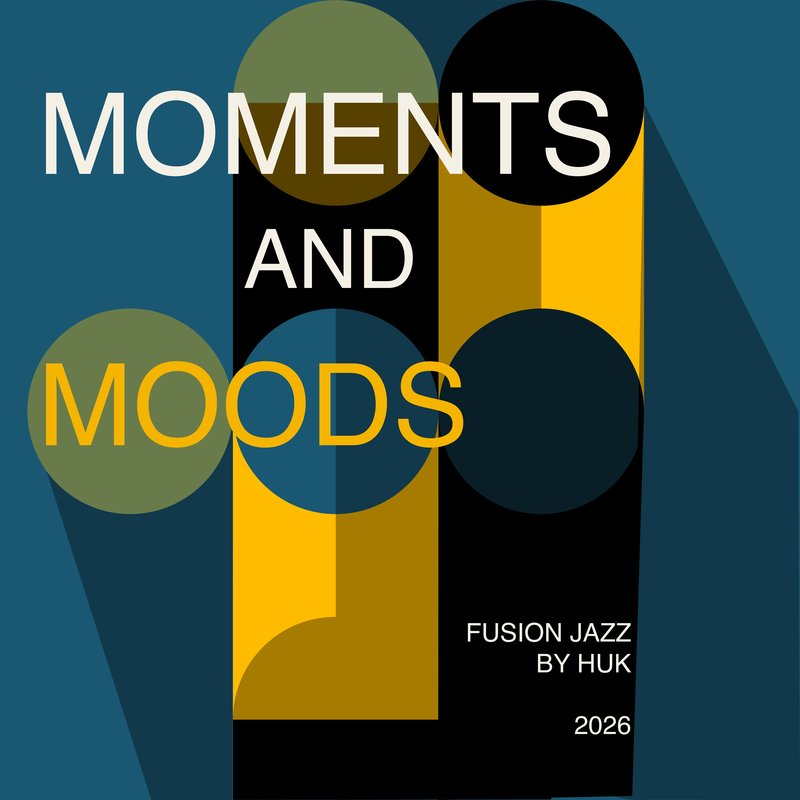
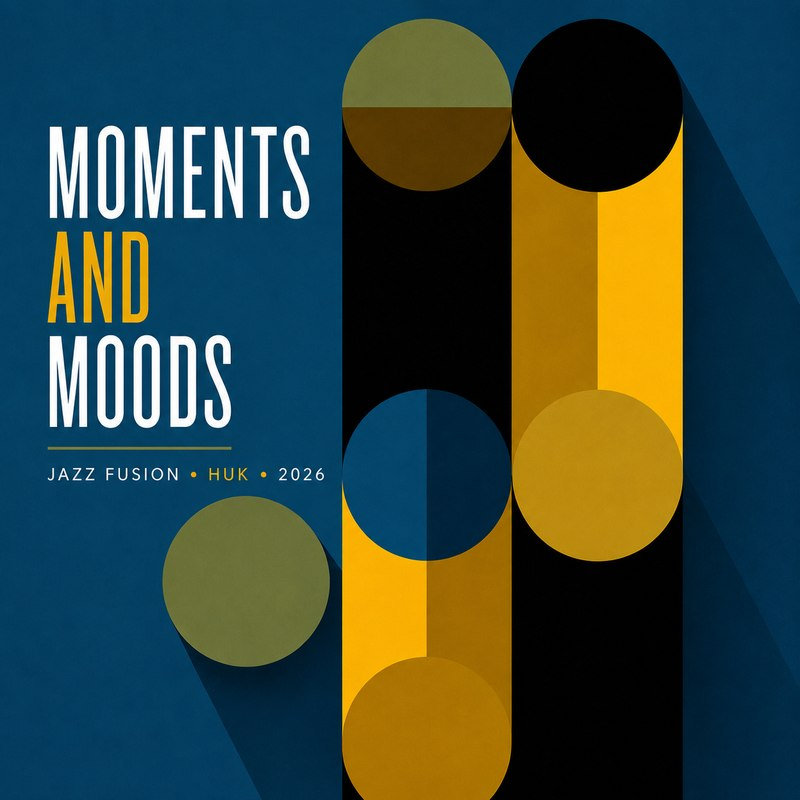
Update EDM/Jazz cover art, fix Jazz track titles/order, admin.html to English
- New static "FUSION EDM" cover replaces the animated GIF on the hub's
  EDM tile (assets/img/edm-teaser.jpg, resized from the supplied 3000x3000
  artwork; the old GIF is removed).
- New "Moments and Moods" cover (assets/img/jazz-teaser.jpg) replaces the
  previous one, matching the artwork supplied alongside the official
  tracklist.
- Jazz Fusion track titles and order now match the official "Moments and
  Moods" tracklist: Turning Point, End of Summer, Sunday Feeling,
  Changing Moods. The two previously-placeholder titles (Echo, Fading
  Light) are matched to Turning Point/Changing Moods by elimination
  against the two titles that were already correct — not verified by
  listening, flagged in README.md for a quick check.
- admin.html translated to English (labels, buttons, status messages) —
  it's served from the same site, so it's in scope for the "everything in
  English" requirement even though it's an owner-only tool.

Claude-Session: https://claude.ai/code/session_014KYhszpZwosWsw3L8Tr8Nx

diff --git a/admin.html b/admin.html
@@ -1,9 +1,9 @@
 <!doctype html>
-<html lang="de">
+<html lang="en">
 <head>
 <meta charset="UTF-8" />
 <meta name="viewport" content="width=device-width, initial-scale=1" />
-<title>Text-Editor — HUK</title>
+<title>Text Editor — HUK</title>
 <meta name="robots" content="noindex" />
 <link rel="stylesheet" href="assets/css/hub.css" />
 <style>
@@ -113,24 +113,24 @@
 </header>
 
 <main class="admin-wrap">
-  <h1>Text-Editor</h1>
+  <h1>Text Editor</h1>
   <p class="lede">
-    Hier änderst du die Marketing-Texte auf Startseite, EDM- und Jazz-Fusion-Seite direkt —
-    „Speichern" wirkt sofort auf der echten Webseite, kein Warten, kein Redeploy nötig. Impressum
-    und Datenschutz sind hier bewusst nicht editierbar (rechtlich heikel), dafür wie bisher direkt
-    im Code.
+    Edit the marketing copy on the homepage, EDM page, and Jazz Fusion page directly here —
+    "Save" takes effect on the live website immediately, no waiting, no redeploy needed. Legal
+    Notice and Privacy Policy are deliberately not editable here (legally sensitive), those still
+    go through the code as before.
   </p>
 
   <div id="loginCard" class="admin-card" hidden>
     <p style="margin-top:0;color:var(--hub-fg-dim);font-size:0.9rem;">
-      Melde dich mit deiner E-Mail-Adresse an — du bekommst einen Login-Link zugeschickt, ein Klick
-      darauf öffnet diese Seite eingeloggt. Kein Passwort nötig.
+      Sign in with your email address — you'll get a login link by email, one click on it opens
+      this page signed in. No password needed.
     </p>
     <div class="admin-field">
-      <label for="loginEmail">E-Mail-Adresse</label>
+      <label for="loginEmail">Email address</label>
       <input type="email" id="loginEmail" placeholder="huk53@kloeppis.de" autocomplete="email" />
     </div>
-    <button type="button" class="admin-btn" id="loginBtn">Login-Link senden</button>
+    <button type="button" class="admin-btn" id="loginBtn">Send login link</button>
     <div id="loginStatus"></div>
   </div>
 
@@ -139,19 +139,19 @@
     <div id="groups"></div>
 
     <div class="admin-savebar">
-      <button type="button" class="admin-btn" id="saveBtn">Änderungen speichern</button>
-      <button type="button" class="admin-btn admin-btn--ghost" id="reloadBtn">Neu laden</button>
-      <button type="button" class="admin-btn admin-btn--ghost" id="signOutBtn">Abmelden</button>
+      <button type="button" class="admin-btn" id="saveBtn">Save changes</button>
+      <button type="button" class="admin-btn admin-btn--ghost" id="reloadBtn">Reload</button>
+      <button type="button" class="admin-btn admin-btn--ghost" id="signOutBtn">Sign out</button>
       <span id="saveStatus"></span>
     </div>
   </div>
 
   <div id="notAuthorized" class="admin-card" hidden>
     <p style="margin:0;">
-      Eingeloggt als <strong id="wrongEmail"></strong> — dieses Konto darf hier nichts ändern.
-      Melde dich mit der Studio-E-Mail-Adresse an.
+      Signed in as <strong id="wrongEmail"></strong> — this account isn't allowed to change
+      anything here. Sign in with the studio's email address instead.
     </p>
-    <button type="button" class="admin-btn admin-btn--ghost" id="signOutBtn2" style="margin-top:1rem;">Abmelden</button>
+    <button type="button" class="admin-btn admin-btn--ghost" id="signOutBtn2" style="margin-top:1rem;">Sign out</button>
   </div>
 </main>
 
@@ -170,32 +170,32 @@
   // what actually matters and is what content.js reads on the live pages.
   const FIELD_GROUPS = [
     {
-      title: "Startseite (index.html)",
+      title: "Homepage (index.html)",
       fields: [
-        ["hub.kicker", "Kicker (klein, über der Headline)"],
+        ["hub.kicker", "Kicker (small, above the headline)"],
         ["hub.title", "Headline"],
-        ["hub.lede", "Einleitungstext"],
-        ["hub.edm.teaser", "EDM-Kachel: Teasertext"],
-        ["hub.edm.cta", "EDM-Kachel: Button-Text"],
-        ["hub.jazz.teaser", "Jazz-Fusion-Kachel: Teasertext"],
-        ["hub.jazz.cta", "Jazz-Fusion-Kachel: Button-Text"],
+        ["hub.lede", "Intro text"],
+        ["hub.edm.teaser", "EDM tile: teaser text"],
+        ["hub.edm.cta", "EDM tile: button text"],
+        ["hub.jazz.teaser", "Jazz Fusion tile: teaser text"],
+        ["hub.jazz.cta", "Jazz Fusion tile: button text"],
       ],
     },
     {
-      title: "EDM-Seite (edm.html)",
+      title: "EDM page (edm.html)",
       fields: [
-        ["edm.hero.tagline", "Hero: Untertitel"],
-        ["edm.hero.cta", "Hero: Button-Text"],
-        ["edm.songs.heading", "Songs-Bereich: Überschrift"],
-        ["edm.songs.intro", "Songs-Bereich: Einleitungstext"],
-        ["edm.about.heading", "Studio-Bereich: Überschrift"],
-        ["edm.about.p1", "Studio-Bereich: Textabsatz 1"],
-        ["edm.about.p2", "Studio-Bereich: Textabsatz 2"],
+        ["edm.hero.tagline", "Hero: subtitle"],
+        ["edm.hero.cta", "Hero: button text"],
+        ["edm.songs.heading", "Songs section: heading"],
+        ["edm.songs.intro", "Songs section: intro text"],
+        ["edm.about.heading", "Studio section: heading"],
+        ["edm.about.p1", "Studio section: paragraph 1"],
+        ["edm.about.p2", "Studio section: paragraph 2"],
       ],
     },
     {
-      title: "Jazz-Fusion-Seite (jazz.html)",
-      fields: [["jazz.hero.tagline", "Hero: Untertitel"]],
+      title: "Jazz Fusion page (jazz.html)",
+      fields: [["jazz.hero.tagline", "Hero: subtitle"]],
     },
   ];
 
@@ -225,9 +225,9 @@
         options: { emailRedirectTo: window.location.origin + window.location.pathname },
       });
       if (error) throw error;
-      showStatus(loginStatus, "Login-Link verschickt — schau in dein Postfach und klick den Link darin.", true);
+      showStatus(loginStatus, "Login link sent — check your inbox and click the link in it.", true);
     } catch (err) {
-      showStatus(loginStatus, "Fehler beim Senden: " + err.message, false);
+      showStatus(loginStatus, "Error sending link: " + err.message, false);
     }
   });
 
@@ -271,7 +271,7 @@
   async function loadContent() {
     const { data, error } = await supa.from("site_content").select("key, value");
     if (error) {
-      showStatus(saveStatus, "Konnte Inhalte nicht laden: " + error.message, false);
+      showStatus(saveStatus, "Could not load content: " + error.message, false);
       return;
     }
     renderEditor(data || []);
@@ -282,7 +282,7 @@
   document.getElementById("saveBtn").addEventListener("click", async () => {
     const dirtyFields = Array.from(groupsEl.querySelectorAll(".admin-field.is-dirty"));
     if (!dirtyFields.length) {
-      showStatus(saveStatus, "Keine Änderungen zum Speichern.", true);
+      showStatus(saveStatus, "No changes to save.", true);
       return;
     }
     const saveBtn = document.getElementById("saveBtn");
@@ -297,9 +297,9 @@
         originalValues[key] = value;
         field.classList.remove("is-dirty");
       }
-      showStatus(saveStatus, `${dirtyFields.length} Änderung(en) gespeichert — live auf der Webseite.`, true);
+      showStatus(saveStatus, `${dirtyFields.length} change(s) saved — live on the website.`, true);
     } catch (err) {
-      showStatus(saveStatus, "Fehler beim Speichern: " + err.message, false);
+      showStatus(saveStatus, "Error saving: " + err.message, false);
     } finally {
       saveBtn.disabled = false;
     }
@@ -313,11 +313,11 @@
     }
     const email = session.user?.email || "";
     if (email.toLowerCase() !== OWNER_EMAIL.toLowerCase()) {
-      document.getElementById("wrongEmail").textContent = email || "(unbekannt)";
+      document.getElementById("wrongEmail").textContent = email || "(unknown)";
       notAuthorized.hidden = false;
       return;
     }
-    whoamiEl.textContent = `Angemeldet als ${email}`;
+    whoamiEl.textContent = `Signed in as ${email}`;
     editorCard.hidden = false;
     await loadContent();
   }

diff --git a/assets/js/jazz.js b/assets/js/jazz.js
@@ -23,10 +23,16 @@
   const APPLE_MUSIC_URL = "https://music.apple.com/de/artist/huk-fusion/6803407059";
   const SPOTIFY_URL = "https://open.spotify.com/artist/5V0AuyekqjEpdtGwjL6m85";
 
+  /* Titles/order per the official "Moments and Moods" tracklist. Audio
+     filenames were already on disk before the official titles arrived,
+     so they don't match 1:1 — matched up by elimination against the two
+     already-correct titles (Sunday Feeling, End of Summer). Worth a
+     quick listen-through to confirm "echo.mp3" is really "Turning Point"
+     and "fading-light.mp3" is really "Changing Moods". */
   const JAZZ_TRACKS = [
     {
-      id: "echo",
-      title: "Echo",
+      id: "turning-point",
+      title: "Turning Point",
       tag: "Fusion Jazz",
       bpm: 92,
       audioSrc: "assets/audio/echo.mp3",
@@ -34,11 +40,11 @@
       spotifyUrl: SPOTIFY_URL,
     },
     {
-      id: "fading-light",
-      title: "Fading Light",
+      id: "end-of-summer",
+      title: "End of Summer",
       tag: "Fusion Jazz",
-      bpm: 88,
-      audioSrc: "assets/audio/fading-light.mp3",
+      bpm: 90,
+      audioSrc: "assets/audio/end-of-summer.mp3",
       appleUrl: APPLE_MUSIC_URL,
       spotifyUrl: SPOTIFY_URL,
     },
@@ -52,11 +58,11 @@
       spotifyUrl: SPOTIFY_URL,
     },
     {
-      id: "end-of-summer",
-      title: "End of Summer",
+      id: "changing-moods",
+      title: "Changing Moods",
       tag: "Fusion Jazz",
-      bpm: 90,
-      audioSrc: "assets/audio/end-of-summer.mp3",
+      bpm: 88,
+      audioSrc: "assets/audio/fading-light.mp3",
       appleUrl: APPLE_MUSIC_URL,
       spotifyUrl: SPOTIFY_URL,
     },

diff --git a/index.html b/index.html
@@ -37,7 +37,7 @@
   <section class="hub-grid">
     <a class="hub-tile hub-tile--edm" href="edm.html">
       <div class="hub-tile__media">
-        <img src="assets/img/edm-teaser.gif" alt="HUK Fusion EDM — cover artwork" loading="lazy" />
+        <img src="assets/img/edm-teaser.jpg" alt="HUK Fusion EDM — cover artwork" loading="lazy" />
       </div>
       <div class="hub-tile__body">
         <span class="hub-tile__kicker">01 — Area</span>

diff --git a/README.md b/README.md
@@ -11,8 +11,8 @@ ein kleines, direkt angebundenes Supabase-Projekt.
 Veröffentlicht via GitHub Pages: https://huk-bem.github.io/huk53/
 
 **Sprache:** Alle Seiteninhalte (Texte, Buttons, Formulare, Impressum/
-Datenschutz) sind auf **Englisch**. Diese README bleibt zur Pflege auf
-Deutsch.
+Datenschutz, inkl. `admin.html`) sind auf **Englisch**. Diese README
+bleibt zur Pflege auf Deutsch.
 
 ## Vorherige Version (archiviert)
 
@@ -42,7 +42,7 @@ assets/js/consent.js    Cookie-Banner + Supabase-Client + Besuchskennung (nur au
 assets/js/content.js    Lädt Marketing-Text-Overrides aus Supabase (index/edm/jazz.html)
 assets/js/intro.js      Intro-Modus: Hintergrund-Motiv + Autoplay-Soundtrack (nur auf edm.html)
 assets/js/jazz.js       Jazz-Fusion-Player (4 Tracks, 30s-Vorschau + Streaming-Buttons)
-assets/img/edm-teaser.gif   Cover-Motiv für die EDM-Kachel auf der Startseite
+assets/img/edm-teaser.jpg   Cover-Motiv ("FUSION EDM") für die EDM-Kachel auf der Startseite
 assets/img/jazz-teaser.jpg  Cover-Motiv ("Moments and Moods") für Jazz-Fusion-Kachel + Hero
 assets/audio/           MP3-Dateien (siehe README dort für Status pro Track)
 supabase-content-setup.sql  SQL für die site_content-Tabelle + RLS (Text-Editor)
@@ -92,14 +92,19 @@ vier echte Tracks aus der Reihe **„Moments and Moods"**, mit demselben
 Streaming-Buttons). Konfiguriert im `JAZZ_TRACKS`-Array in
 `assets/js/jazz.js`:
 
-- Echo (`echo.mp3`)
-- Fading Light (`fading-light.mp3`)
-- Sunday Feeling (`sunday-feeling.mp3`)
-- End of Summer (`end-of-summer.mp3`)
+Titel und Reihenfolge stammen aus dem offiziellen "Moments and
+Moods"-Tracklisting-Screenshot:
 
-Titel wurden aus den hochgeladenen Dateinamen abgeleitet (Versions-Suffixe
-wie `_2`/`_3` entfernt) — kurz gegenprüfen, falls das nicht die
-gewünschten offiziellen Titel sind.
+1. Turning Point (Audiodatei: `echo.mp3`)
+2. End of Summer (Audiodatei: `end-of-summer.mp3`)
+3. Sunday Feeling (Audiodatei: `sunday-feeling.mp3`)
+4. Changing Moods (Audiodatei: `fading-light.mp3`)
+
+Die Audio-Dateinamen stammen noch aus dem ersten Upload (vor dem
+offiziellen Tracklisting) und wurden nicht umbenannt — zwei Titel
+(„Turning Point" für `echo.mp3`, „Changing Moods" für `fading-light.mp3`)
+waren per Ausschlussverfahren zugeordnet, nicht durch Anhören verifiziert.
+Kurz gegenprüfen, ob die Zuordnung stimmt.
 
 **Streaming-Links, ehrlich benannt:** Wie bei den EDM-Tracks bieten Apple
 Music und Spotify für HUK Fusion aktuell nur eine Artist-Seite an, keine
